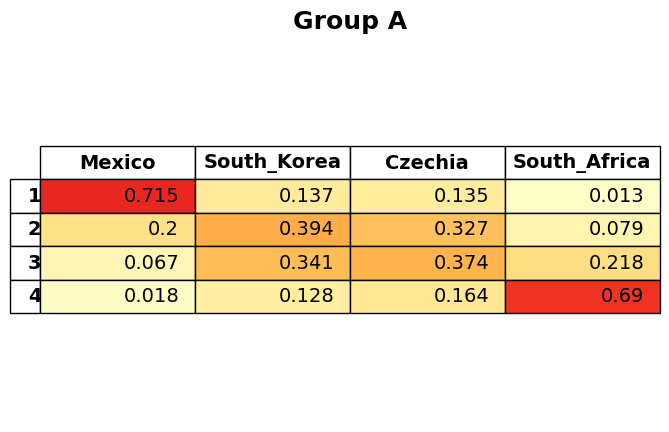
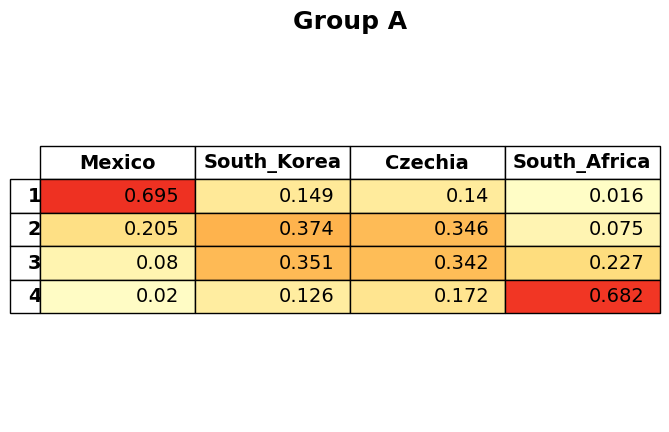
Test of average table print statement

diff --git a/WC2026.py b/WC2026.py
@@ -39,7 +39,7 @@ class WC_2026:
                                         50
                                         )
 
-        print(self.total_table)
+        # print(self.total_table)
 
         for group in self.groups:
 
@@ -48,9 +48,12 @@ class WC_2026:
             TM.plot_avg_placements('WC2026', average_placement_table, group)
 
             #calculate the average table for each group then plot
-            # average_table = self.total_table[group]
+            total_group_table = self.total_table[self.total_table['Group'] == group] 
+            average_group_table = deepcopy(total_group_table.loc[:, ['Team', 'Points']])
 
-            # print(average_table)
+            average_group_table['Points'] / iterations
+
+            print(average_group_table)
 
 
     def filter_group(self, table, group):
